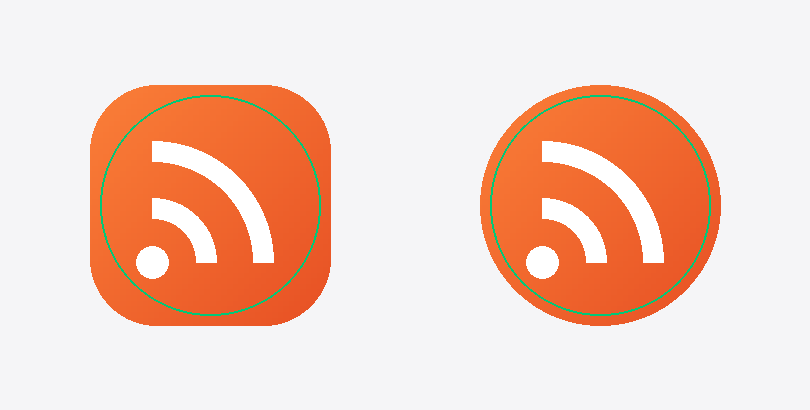
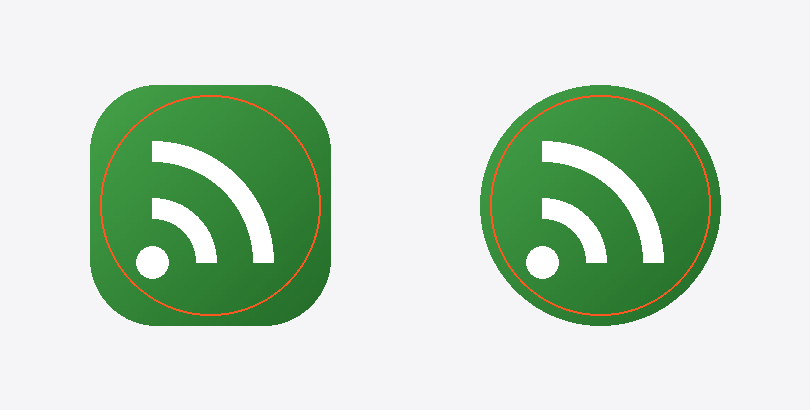
扩充内置订阅源到 17 个，图标底色改绿
订阅源（全部实测连通后才加入）：
- 科技 + IT之家、爱范儿、量子位（原有 HN / TechCrunch / Solidot）
- 开发 + 掘金、阮一峰、GitHub Trending（原有 InfoQ / OSCHINA）
- 综合 + 小众软件、机核（原有少数派）
- 新增「热点」分类：知乎热榜、知乎日报、B站热搜

小红书 / Twitter 未内置：它们只有 RSSHub 路由，且需要实例侧配置
登录凭证（小红书 cookie / TWITTER_AUTH_TOKEN），5 个公共镜像实测全部
503。官方 rsshub.app 在本地 DNS 被污染（解析到 31.13.106.4）不可用，
故热点源走实测可用的 rsshub.liumingye.cn / rsshub.woodland.cafe /
rsshub.rssforever.com，已在代码注释里记录镜像可用性与替换方法。

- 超时收紧（call 25s->18s、read 20s->14s）：源多了，冷启动耗时应
  取决于最慢那个源
- 新增 FeedSourcesTest：id 唯一、地址唯一且 https、分类都出现在筛选
  选项里等 6 条一致性断言
- 图标底色由橙渐变(#FF8A3D->#E2451F)改为绿渐变(#4CAF50->#1B5E20)，
  同步更新 ic_launcher_background.xml 与 gen_icons.py；安全区仍 PASS

Changed region(s): [[0.0926, 0.2049, 0.4321, 0.8195], [0.5864, 0.2049, 0.8951, 0.7902]]

diff --git a/app/src/main/java/com/example/feedreader/data/Models.kt b/app/src/main/java/com/example/feedreader/data/Models.kt
@@ -37,14 +37,52 @@ data class FetchOutcome(
 
 object FeedSources {
 
-    /** 内置订阅源。挑的是体积可控、结构规范的几个。 */
+    /**
+     * 内置订阅源。
+     *
+     * 前 14 个是各站官方 RSS，直连即可。
+     *
+     * 「热点」那 3 个没有官方 RSS，走 RSSHub 公共镜像。镜像可用性实测（2026-09-24）：
+     *   rsshub.liumingye.cn   通
+     *   rsshub.woodland.cafe  通
+     *   rsshub.rssforever.com 通
+     *   官方 rsshub.app       本网络下 DNS 被污染（解析到 31.13.106.4），不可用
+     * 镜像会挂，如果哪个源开始报错，换成其它镜像即可；实在不行在设置里关掉。
+     *
+     * 没内置的：小红书、Twitter/X —— 它们的 RSSHub 路由需要实例侧配置
+     * 登录凭证（小红书 cookie / TWITTER_AUTH_TOKEN），公共镜像实测全部 503。
+     * 想要的话得自己部署一个 RSSHub 实例并配上 cookie。
+     */
     val DEFAULT: List<FeedSource> = listOf(
+        // —— 科技 ——
         FeedSource("hn", "Hacker News", "https://hnrss.org/frontpage", "科技"),
         FeedSource("techcrunch", "TechCrunch", "https://techcrunch.com/feed/", "科技"),
         FeedSource("solidot", "Solidot 奇客", "https://www.solidot.org/index.rss", "科技"),
+        FeedSource("ithome", "IT之家", "https://www.ithome.com/rss/", "科技"),
+        FeedSource("ifanr", "爱范儿", "https://www.ifanr.com/feed", "科技"),
+        FeedSource("qbitai", "量子位", "https://www.qbitai.com/feed", "科技"),
+
+        // —— 开发 ——
         FeedSource("infoq", "InfoQ 中文", "https://www.infoq.cn/feed", "开发"),
         FeedSource("oschina", "OSCHINA", "https://www.oschina.net/news/rss", "开发"),
+        FeedSource("juejin", "掘金", "https://juejin.cn/rss", "开发"),
+        FeedSource("ruanyf", "阮一峰的网络日志", "https://www.ruanyifeng.com/blog/atom.xml", "开发"),
+        FeedSource(
+            "ghtrending",
+            "GitHub Trending",
+            "https://rsshub.rssforever.com/github/trending/daily/any",
+            "开发",
+        ),
+
+        // —— 综合 ——
         FeedSource("sspai", "少数派", "https://sspai.com/feed", "综合"),
+        FeedSource("appinn", "小众软件", "https://www.appinn.com/feed/", "综合"),
+        FeedSource("gcores", "机核", "https://www.gcores.com/rss", "综合"),
+
+        // —— 热点（RSSHub 镜像）——
+        FeedSource("zhihuhot", "知乎热榜", "https://rsshub.liumingye.cn/zhihu/hot", "热点"),
+        FeedSource("zhihudaily", "知乎日报", "https://rsshub.woodland.cafe/zhihu/daily", "热点"),
+        FeedSource("bilihot", "B站热搜", "https://rsshub.liumingye.cn/bilibili/hot-search", "热点"),
     )
 
     const val ALL = "全部"

diff --git a/app/src/test/java/com/example/feedreader/data/FeedSourcesTest.kt b/app/src/test/java/com/example/feedreader/data/FeedSourcesTest.kt
@@ -1,0 +1,62 @@
+package com.example.feedreader.data
+
+import org.junit.Assert.assertEquals
+import org.junit.Assert.assertTrue
+import org.junit.Test
+
+/**
+ * 源列表本身的一致性检查。列表会持续加源，手滑写重 id / 漏 https / 分类打错
+ * 在运行时只表现为「某个源没内容」，很难查，所以在这里钉死。
+ */
+class FeedSourcesTest {
+
+    @Test
+    fun `源 id 不重复`() {
+        val ids = FeedSources.DEFAULT.map { it.id }
+        assertEquals("存在重复的 source id", ids.size, ids.distinct().size)
+    }
+
+    @Test
+    fun `源地址不重复且都是 https`() {
+        val urls = FeedSources.DEFAULT.map { it.url }
+        assertEquals("存在重复的源地址", urls.size, urls.distinct().size)
+        urls.forEach { url ->
+            assertTrue("不是 https：$url", url.startsWith("https://"))
+        }
+    }
+
+    @Test
+    fun `名称与分类都非空`() {
+        FeedSources.DEFAULT.forEach { source ->
+            assertTrue("名称为空：${source.id}", source.name.isNotBlank())
+            assertTrue("分类为空：${source.id}", source.category.isNotBlank())
+        }
+    }
+
+    @Test
+    fun `每个源的分类都能在筛选选项里找到`() {
+        val categories = FeedSources.categoriesOf(FeedSources.DEFAULT)
+        assertEquals(FeedSources.ALL, categories.first())
+        FeedSources.DEFAULT.forEach { source ->
+            assertTrue("分类 ${source.category} 未出现在筛选选项里", source.category in categories)
+        }
+    }
+
+    @Test
+    fun `分类选项按源的顺序去重且不含重复项`() {
+        val categories = FeedSources.categoriesOf(FeedSources.DEFAULT)
+        assertEquals(categories.size, categories.distinct().size)
+        // 顺序 = 首次出现的顺序，抽屉里分类的排列依赖这一点
+        assertEquals(
+            listOf(FeedSources.ALL) + FeedSources.DEFAULT.map { it.category }.distinct(),
+            categories,
+        )
+    }
+
+    @Test
+    fun `只看启用的源时分类跟着变少`() {
+        val onlyTech = FeedSources.DEFAULT.filter { it.category == "科技" }
+        val categories = FeedSources.categoriesOf(onlyTech)
+        assertEquals(listOf(FeedSources.ALL, "科技"), categories)
+    }
+}

diff --git a/app/src/main/java/com/example/feedreader/data/FeedRepository.kt b/app/src/main/java/com/example/feedreader/data/FeedRepository.kt
@@ -111,10 +111,11 @@ class FeedRepository(
         private val ENCODING = Regex("""encoding\s*=\s*["']([\w.:-]+)["']""", RegexOption.IGNORE_CASE)
 
         fun defaultClient(): OkHttpClient = OkHttpClient.Builder()
-            .connectTimeout(10, TimeUnit.SECONDS)
-            .readTimeout(20, TimeUnit.SECONDS)
-            .writeTimeout(10, TimeUnit.SECONDS)
-            .callTimeout(25, TimeUnit.SECONDS)
+            .connectTimeout(8, TimeUnit.SECONDS)
+            .readTimeout(14, TimeUnit.SECONDS)
+            .writeTimeout(8, TimeUnit.SECONDS)
+            // 十几个源并发拉，整体等待时间取决于最慢的那个；给个比 read 稍宽的上限兜住重定向链
+            .callTimeout(18, TimeUnit.SECONDS)
             .retryOnConnectionFailure(true)
             .build()
     }

diff --git a/tools/gen_icons.py b/tools/gen_icons.py
@@ -7,7 +7,7 @@
   res/mipmap-anydpi-v26/ic_launcher_round.xml
   res/mipmap-{mdpi,hdpi,xhdpi,xxhdpi,xxxhdpi}/ic_launcher(_round).png   API 21-25 兜底
 
-图形：橙色渐变底 + 白色 RSS 弧线。
+图形：绿色渐变底 + 白色 RSS 弧线。
 """
 
 import math
@@ -19,8 +19,8 @@ RES = os.path.join(
     "app", "src", "main", "res",
 )
 
-C0 = (255, 138, 61)   # 橙
-C1 = (226, 69, 31)    # 深橙红
+C0 = (76, 175, 80)    # 绿 (#4CAF50)
+C1 = (27, 94, 32)     # 深绿 (#1B5E20)
 SS = 8                # 超采样倍数
 
 # 108 空间下的 RSS 图形参数
@@ -213,7 +213,7 @@ def adaptive_preview():
         guide = ImageDraw.Draw(layer)
         c = side / 2.0
         r = SAFE_RADIUS_DP * k
-        guide.ellipse([c - r, c - r, c + r, c + r], outline=(0, 200, 120, 255), width=2)
+        guide.ellipse([c - r, c - r, c + r, c + r], outline=(255, 87, 34, 255), width=2)
 
         out.paste(layer, (x, 25), layer)
         x += side + 30
